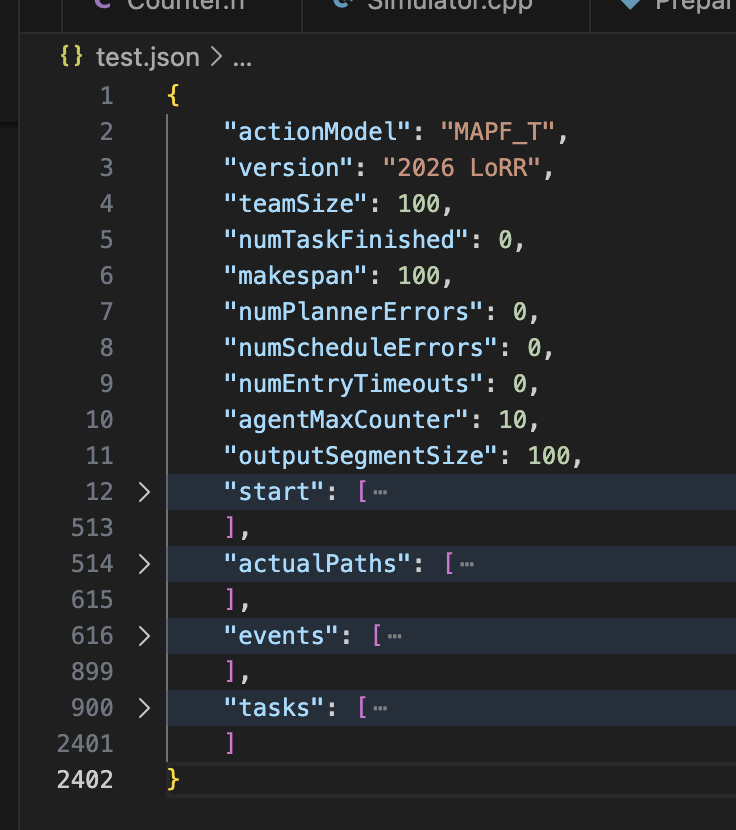
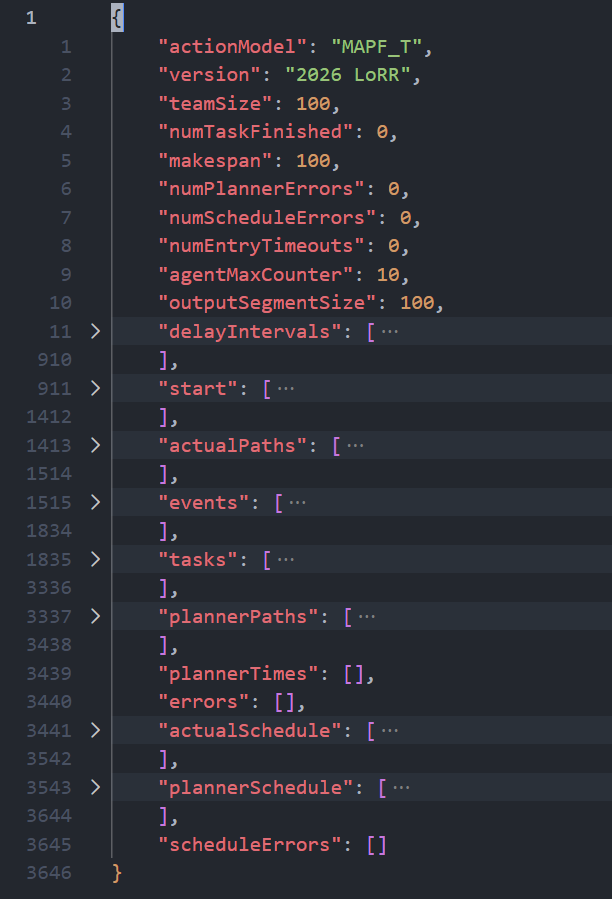
added delay interval in Input_Output_Format.md

diff --git a/Input_Output_Format.md b/Input_Output_Format.md
@@ -93,6 +93,7 @@ The following table defines the properties that appear in the output file.
 | teamSize        | Int <br /> The number of robots in the simulation                                                                                                                                                                                                                                                                                                                                                     |
 | agentMaxCounter | Int | The `maxCounter` used in this run (ticks per Forward/Rotate action) |
 | outputSegmentSize | Int | Segment/window length used for compressed path output |
+| delayIntervals | List | A list of `n` per-agent delay interval lists, where `n` is the number of robots. Each interval is stored as `[start_timestep, end_timestep]`. Included only when `outputScreen <= 2`. |
 | start           | List <br />A list of start locations. The length of the list is the number of robots.                                                                                                                                                                                                                                                                                           |
 | numTaskFinished | Int <br />Number of finished tasks.                                                                                                                                                                                                                                                                                                                                             |
 | sumOfCost       | Int <br />                                                                                                                                                                                                                                                                                                                                                                      |
@@ -132,3 +133,21 @@ Where:
 
 Multiple segments are concatenated in the string to represent the full run.
 
+### Delay interval format (`delayIntervals`)
+
+`delayIntervals` is a list with one entry per robot. Each robot entry is a list of delay intervals:
+
+`[[start_timestep, end_timestep], ...]`
+
+Where:
+- `start_timestep` is the execution tick when the delay starts
+- `end_timestep` is the execution tick when the delay ends
+
+Example:
+
+`[[], [[12, 15], [40, 42]], [[7, 9]]]`
+
+This means:
+- robot 0 had no delays
+- robot 1 was delayed during intervals `[12, 15]` and `[40, 42]`
+- robot 2 was delayed during interval `[7, 9]`
